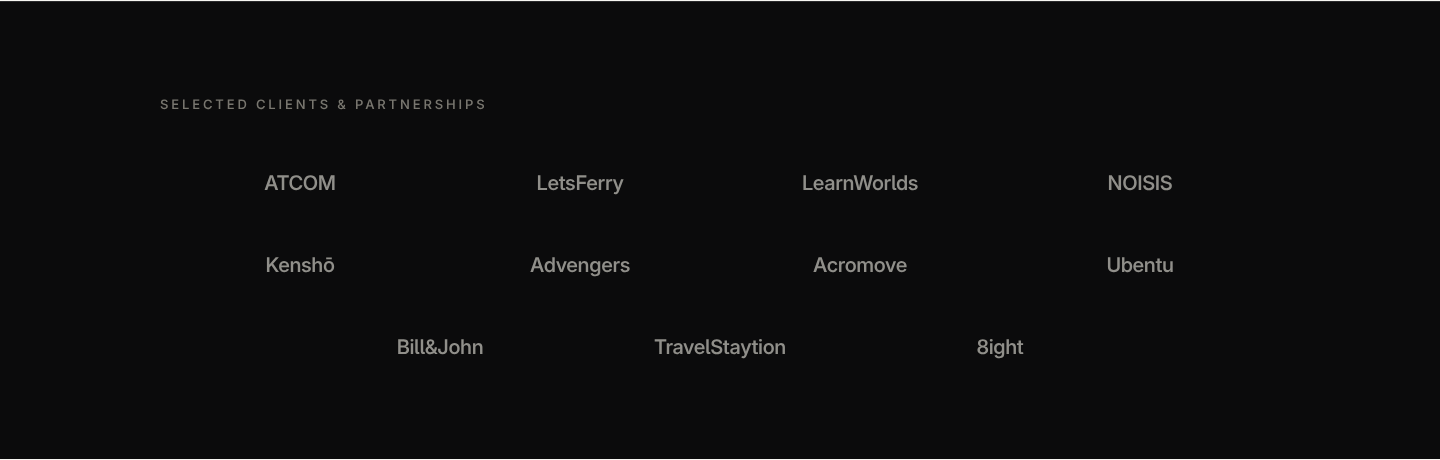
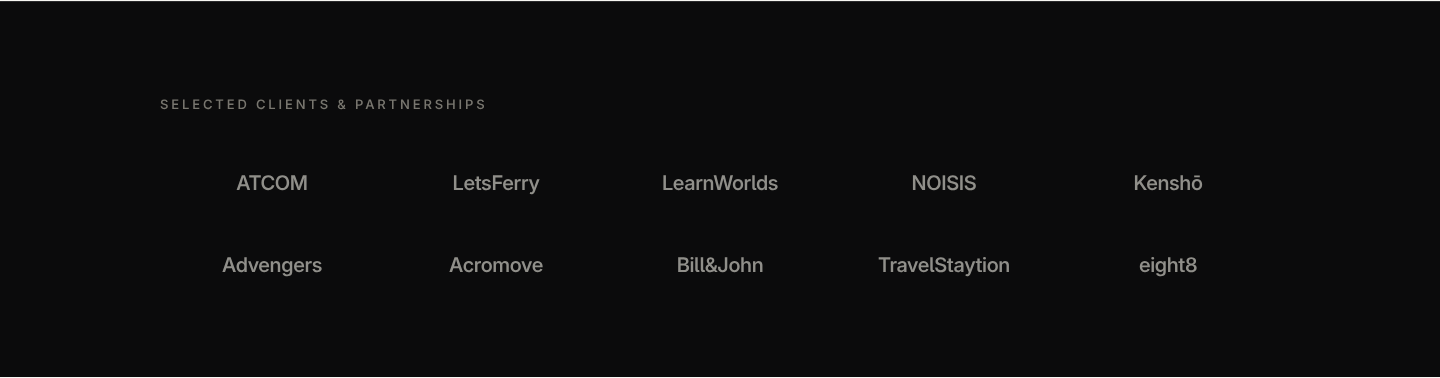
fix: final 10-company client list — remove Ubentu, correct eight8 identity
Owner-approved revision of the Selected Clients & Partnerships section:

- Ubentu removed completely from both homepages
- Entry 10 corrected to "eight8" — the creative web & digital marketing
  agency at eight8.gr, per the owner; the previous "8ight" wordmark no
  longer appears anywhere. Official casing/lettermark to be confirmed
  from eight8.gr once the site is reachable; no fabricated mark is used
- Kenshō identity confirmed by the owner as Kenshō Boutique Hotels
  (Mykonos); documented in the sources file
- Grid rebalanced for 10 entries: 5/5 desktop, 4/4/2 tablet, 2-per-row
  mobile, all centered
- Logo files still cannot be downloaded from this environment (network
  allowlist re-verified against all domains incl. eight8.gr), so all 10
  entries keep the neutral typographic fallback; docs/
  CLIENT_LOGO_SOURCES.md updated with the final list, per-company source
  and status, and drop-in instructions

QA (all passing): smoke suite 25 pages; 62 section checks across EN/EL
at 375/390/430/768/1440 px — exact list and order, no Skroutz, no
Ubentu, no "8ight", no overflow, no clipped entries, Four Stories hero
and intake pages intact. Screenshots refreshed.

Claude-Session: https://claude.ai/code/session_01JftqYVZWgz7fLNNmyM6cim

diff --git a/assets/css/styles.css b/assets/css/styles.css
@@ -648,7 +648,7 @@ a.tag:hover { border-color: var(--ink); color: var(--ink); text-decoration: none
   row-gap: clamp(28px, 4vw, 42px);
 }
 .client {
-  flex: 0 0 25%;
+  flex: 0 0 20%;
   min-width: 0;
   display: flex;
   align-items: center;
@@ -675,7 +675,7 @@ a.tag:hover { border-color: var(--ink); color: var(--ink); text-decoration: none
 .client:hover .client-mark, .client:focus-within .client-mark { color: var(--white); }
 .client:hover img, .client:focus-within img { opacity: 1; }
 @media (max-width: 900px) {
-  .client { flex-basis: 33.333%; padding: 4px 12px; }
+  .client { flex-basis: 25%; padding: 4px 12px; }
 }
 @media (max-width: 560px) {
   .client { flex-basis: 50%; padding: 4px 8px; }

diff --git a/el/index.html b/el/index.html
@@ -87,10 +87,9 @@
       <li class="client"><span class="client-mark">Kenshō</span></li>
       <li class="client"><span class="client-mark">Advengers</span></li>
       <li class="client"><span class="client-mark">Acromove</span></li>
-      <li class="client"><span class="client-mark">Ubentu</span></li>
       <li class="client"><span class="client-mark">Bill&amp;John</span></li>
       <li class="client"><span class="client-mark">TravelStaytion</span></li>
-      <li class="client"><span class="client-mark">8ight</span></li>
+      <li class="client"><span class="client-mark">eight8</span></li>
     </ul>
   </div>
 </section>

diff --git a/index.html b/index.html
@@ -87,10 +87,9 @@
       <li class="client"><span class="client-mark">Kenshō</span></li>
       <li class="client"><span class="client-mark">Advengers</span></li>
       <li class="client"><span class="client-mark">Acromove</span></li>
-      <li class="client"><span class="client-mark">Ubentu</span></li>
       <li class="client"><span class="client-mark">Bill&amp;John</span></li>
       <li class="client"><span class="client-mark">TravelStaytion</span></li>
-      <li class="client"><span class="client-mark">8ight</span></li>
+      <li class="client"><span class="client-mark">eight8</span></li>
     </ul>
   </div>
 </section>

diff --git a/docs/CLIENT_LOGO_SOURCES.md b/docs/CLIENT_LOGO_SOURCES.md
@@ -1,58 +1,55 @@
 # Selected Clients & Partnerships — logo sourcing status
 
-Status: **all 11 entries currently use the refined typographic fallback.**
-No authentic logo file is committed yet, and none has been redrawn or
-approximated — per the brand rule, we either use the genuine asset or a
-neutral house-style wordmark.
+Final approved list: **10 companies** (Ubentu removed by owner decision;
+Skroutz excluded throughout). Status: **all 10 entries currently use the
+refined typographic fallback.** No authentic logo file is committed yet, and
+none has been redrawn or approximated — per the brand rule, we either use the
+genuine asset or a neutral house-style wordmark.
 
 ## Why no logo files yet
 
-The build environment for this change runs behind a network allowlist that
-blocks every company website (and Wikimedia/CDN mirrors), so authentic assets
-could not be downloaded or verified pixel-by-pixel from official sources.
-Identity research was performed via web search; findings and official domains
-are recorded below.
+The build environment runs behind a network allowlist that blocks every
+company website (re-verified for all domains below, including eight8.gr), so
+authentic assets cannot be downloaded or verified from official sources here.
+To unblock: either allow these domains in the session's network settings, or
+drop the official files into `assets/img/clients/` — activation is then a
+one-line swap per entry (below).
 
 ## How to activate a real logo (no layout change needed)
 
 1. Obtain the official asset (SVG preferred, else transparent PNG ≥ 300 px
-   wide) from the sources below and save it as
-   `assets/img/clients/<slug>.svg|png` (slugs listed per company).
+   wide) and save it as `assets/img/clients/<slug>.svg|png`.
 2. In `index.html` and `el/index.html`, replace
    `<span class="client-mark">Name</span>` with
    `<img src="/assets/img/clients/<slug>.svg" alt="Name" width="W" height="H" loading="lazy">`
    (real intrinsic dimensions to prevent layout shift).
 3. The CSS already applies the monochrome white treatment
    (`filter: brightness(0) invert(1)`, 72 % rest opacity, 100 % on hover) and
-   optical sizing by height — original proportions are preserved, nothing is
-   stretched. Retina rendering is automatic for SVG; for PNG supply 2×.
+   optical sizing by height — original proportions preserved, nothing
+   stretched. SVG renders crisply on Retina; for PNG supply 2×.
 
-## Per-company status
+## Per-company status (approved order)
 
-| # | Company | Slug | Identity (research) | Official source for the logo | Status |
+| # | Company | Slug | Identity | Official logo source | Status |
 |---|---|---|---|---|---|
 | 1 | ATCOM | `atcom` | Greek digital business agency, Athens (founded 2000) | https://www.atcom.gr | identity confirmed; asset pending download |
-| 2 | LetsFerry | `letsferry` | Greek online ferry-ticket platform, Piraeus | https://www.letsferry.gr (also letsferry.com) | identity confirmed; asset pending download |
-| 3 | LearnWorlds | `learnworlds` | Course-platform SaaS with Greek roots | https://www.learnworlds.com (press/brand page if available) | identity confirmed; asset pending download |
-| 4 | NOISIS | `noisis` | NOISIS Development Consultants S.A., Thessaloniki/Athens (founded 1998) | https://www.noisis.gr | identity confirmed (domain inferred from corporate email); asset pending download |
-| 5 | Kenshō | `kensho` | Kenshō Boutique Hotels (Psarou & Ornos, Mykonos) — fits the Hospitality & Premium Services sector | https://www.kenshomykonos.com | identity probable — **owner to confirm** this is the intended “Kenshō” (a US fintech of the same name exists); asset pending |
-| 6 | Advengers | `advengers` | Athens data-inspired content/marketing agency (~40 staff, Nea Ionia / Nea Smyrni) | official domain not yet identified — **owner to supply** | identity partially confirmed; asset pending |
-| 7 | Acromove | `acromove` | Edge data-center / portable infrastructure tech company with Athens presence | https://www.acromove.com | identity confirmed; asset pending download |
-| 8 | Ubentu | `ubentu` | **not verifiable by search** (no indexed company found under this name) | — **owner to supply** correct name/domain/asset | unverified — typographic fallback |
-| 9 | Bill&John | `billandjohn` | Greek luxury property & hotel management company (branding case study at nov.gr/en/bill-and-john/) | own domain not yet identified — **owner to supply** | identity partially confirmed; asset pending |
-| 10 | TravelStaytion | `travelstaytion` | Vacation-rental booking platform (London HQ, Greek founders, est. 2012/13) | https://www.travelstaytion.com | identity confirmed; asset pending download |
-| 11 | 8ight | `8ight` | **not verifiable by search** (no Greek company indexed under this name) | — **owner to supply** correct name/domain/asset | unverified — typographic fallback |
+| 2 | LetsFerry | `letsferry` | Greek online ferry-ticket platform, Piraeus | https://www.letsferry.gr | identity confirmed; asset pending download |
+| 3 | LearnWorlds | `learnworlds` | Course-platform SaaS with Greek roots | https://www.learnworlds.com | identity confirmed; asset pending download |
+| 4 | NOISIS | `noisis` | NOISIS Development Consultants S.A., Thessaloniki/Athens | https://www.noisis.gr | identity confirmed; asset pending download |
+| 5 | Kenshō | `kensho` | **Kenshō Boutique Hotels** (Psarou & Ornos, Mykonos) — confirmed by owner | https://www.kenshomykonos.com | identity confirmed; asset pending download |
+| 6 | Advengers | `advengers` | Athens data-inspired content/marketing agency | official domain still unconfirmed — owner to supply | identity partially confirmed; asset pending |
+| 7 | Acromove | `acromove` | Edge data-center technology company, Athens presence | https://www.acromove.com | identity confirmed; asset pending download |
+| 8 | Bill&John | `billandjohn` | Greek luxury property & hotel management company | own domain still unconfirmed (branding case study: nov.gr/en/bill-and-john/) — owner to supply | identity partially confirmed; asset pending |
+| 9 | TravelStaytion | `travelstaytion` | Vacation-rental booking platform (London HQ, Greek founders) | https://www.travelstaytion.com | identity confirmed; asset pending download |
+| 10 | eight8 | `eight8` | Creative web & digital marketing agency — **confirmed by owner** | https://www.eight8.gr | identity confirmed; asset pending download. Displayed wordmark "eight8" follows the domain and external directory listings; confirm official casing/lettermark from the site when accessible. Never render a fabricated "8ight" mark. |
 
-Research references: company websites above; plus naftemporiki.gr, amcham.gr,
-builtin.com, dealroom.co, gust.com, hostaway.com, greekcitytimes.com,
-nov.gr (Bill and John case study) — used for identification only, not as logo
-sources.
+Removed by owner decision: **Ubentu** (2026-11-01). **Skroutz** must not appear.
 
 ## Explicit guarantees in the current implementation
 
-- Exactly the 11 approved names, in the approved order, in both languages.
-- **Skroutz does not appear.**
+- Exactly the 10 approved names, approved order, both languages.
+- No Skroutz, no Ubentu.
 - No invented, redrawn or approximated logos — the fallback is a neutral
-  single-typeface wordmark (site font), visually uniform, clearly not an
-  imitation of any brand's lettering.
+  single-typeface wordmark (site font), uniform, imitating no brand lettering.
 - No external runtime image dependencies; nothing loads from third parties.
+- Grid balance: 5/5 (desktop), 4/4/2 (tablet), 2 per row (mobile), centered.
